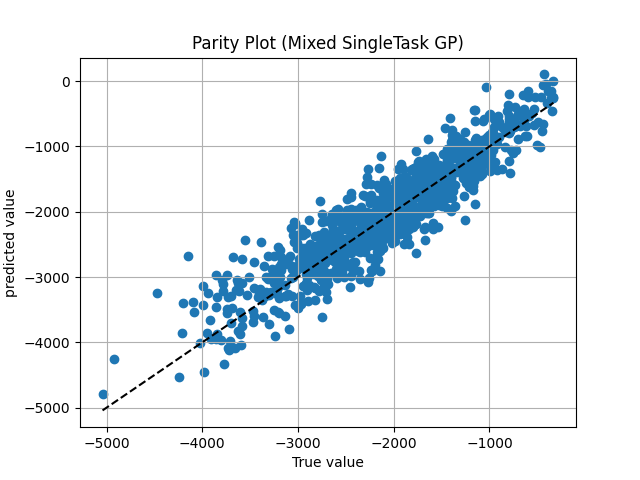
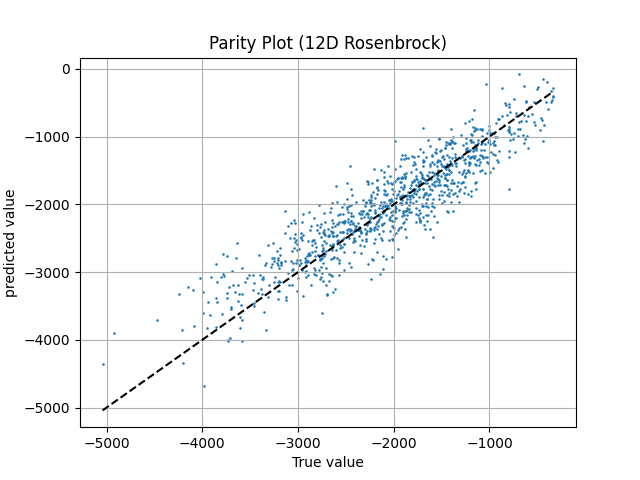
update

diff --git a/Parity_MixedSingleTask_Rosenbrock.py b/Parity_MixedSingleTask_Rosenbrock.py
@@ -90,9 +90,9 @@ posterior = model.posterior(test_X)
 mean = (posterior.mean).detach().numpy() # posterior mean for GP (predicted value)
 
 # Plotting
-plt.scatter(Y_te, mean, label='Mixed SingleTask GP')
+plt.scatter(Y_te, mean, label='MixedSingleTask GP',s=0.7)
 plt.plot([min(Y_te), max(Y_te)], [min(Y_te), max(Y_te)], 'k--') 
 plt.xlabel('True value')
 plt.ylabel('predicted value')
-plt.title('Parity Plot (Mixed SingleTask GP)')
+plt.title('Parity Plot (12D Rosenbrock)')
 plt.grid(True)
